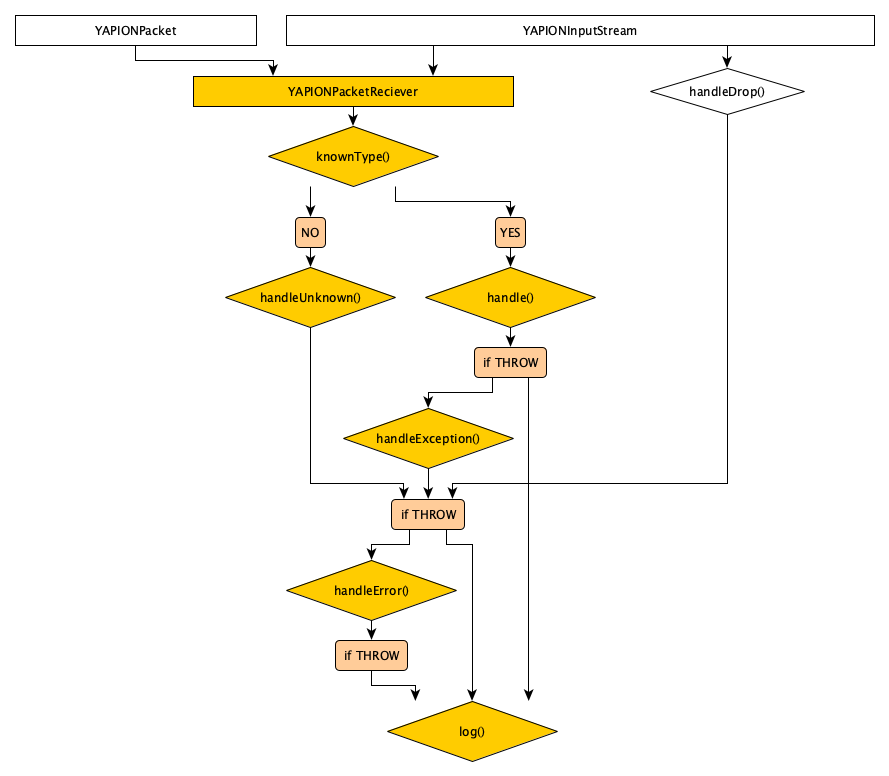
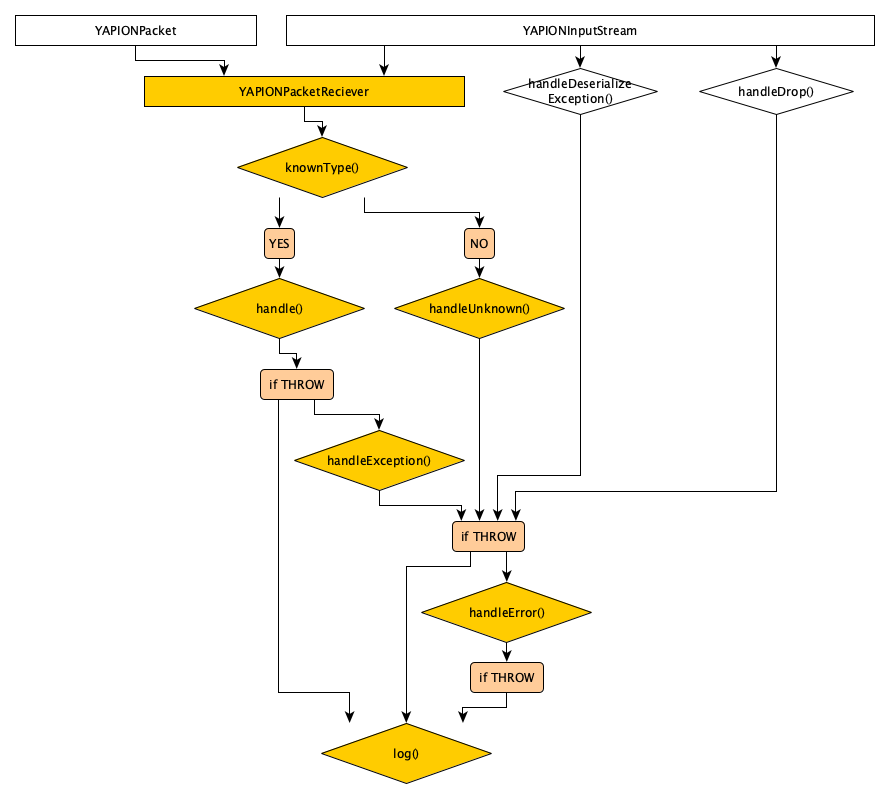
Add YAPIONDeserializationExceptionPacket Update YAPIONPacketReceiver Add YAPIONPacketReceiver.DESERIALIZE_EXCEPTION_HANDLER

Changed region(s): [[0.0304, 0.0309, 0.9719, 0.5258], [0.3037, 0.4948, 0.6682, 0.9897], [0.7897, 0.5876, 0.82, 0.6186]]

diff --git a/src/main/java/yapion/packet/YAPIONPacketReceiver.java b/src/main/java/yapion/packet/YAPIONPacketReceiver.java
@@ -25,6 +25,7 @@ public class YAPIONPacketReceiver {
     private static final String EXCEPTION_HANDLER = "@exception";
     private static final String UNKNOWN_PACKET_HANDLER = "@unknown";
     private static final String DROP_HANDLER = "@drop";
+    private static final String DESERIALIZE_EXCEPTION_HANDLER = "@deserialize";
 
     /**
      * Creates an YAPIONPacketReceiver
@@ -35,6 +36,10 @@ public class YAPIONPacketReceiver {
         handlerMap.put(EXCEPTION_HANDLER, yapionPacket -> {
         });
         handlerMap.put(UNKNOWN_PACKET_HANDLER, yapionPacket -> {
+        });
+        handlerMap.put(DROP_HANDLER, yapionPacket -> {
+        });
+        handlerMap.put(DESERIALIZE_EXCEPTION_HANDLER, yapionPacket -> {
         });
     }
 
@@ -116,7 +121,7 @@ public class YAPIONPacketReceiver {
     }
 
     /**
-     * Set the Drop {@link YAPIONPacketHandler} to do something when an date drop occurred.
+     * Set the Drop {@link YAPIONPacketHandler} to do something when a data drop occurred.
      *
      * @param yapionPacketHandler
      */
@@ -125,6 +130,19 @@ public class YAPIONPacketReceiver {
             throw new YAPIONException();
         }
         handlerMap.put(DROP_HANDLER, yapionPacketHandler);
+        return this;
+    }
+
+    /**
+     * Set the Deserialization Exception {@link YAPIONPacketHandler} to do something when a deserialization exception occurred.
+     *
+     * @param yapionPacketHandler
+     */
+    public YAPIONPacketReceiver setDeserializationExceptionHandler(YAPIONPacketHandler yapionPacketHandler) {
+        if (yapionPacketHandler == null) {
+            throw new YAPIONException();
+        }
+        handlerMap.put(DESERIALIZE_EXCEPTION_HANDLER, yapionPacketHandler);
         return this;
     }
 
@@ -181,6 +199,10 @@ public class YAPIONPacketReceiver {
 
     void handleDrop(YAPIONPacket yapionPacket) {
         handlePacket(yapionPacket, DROP_HANDLER, handlerMap.get(DROP_HANDLER), this::handleError);
+    }
+
+    void handleDeserializationException(YAPIONPacket yapionPacket) {
+        handlePacket(yapionPacket, DESERIALIZE_EXCEPTION_HANDLER, handlerMap.get(DROP_HANDLER), this::handleError);
     }
 
     private void handleUnknown(YAPIONPacket yapionPacket) {

diff --git a/src/main/java/yapion/packet/YAPIONInputStream.java b/src/main/java/yapion/packet/YAPIONInputStream.java
@@ -198,7 +198,12 @@ public final class YAPIONInputStream {
         if (!(yapionAnyType instanceof YAPIONValue)) return;
         Object object = ((YAPIONValue) yapionAnyType).get();
         if (!(object instanceof String)) return;
-        object = YAPIONDeserializer.deserialize(yapionObject);
+        try {
+            object = YAPIONDeserializer.deserialize(yapionObject);
+        } catch (Exception e) {
+            yapionPacketReceiver.handleDeserializationException(new YAPIONDeserializationExceptionPacket(yapionObject));
+            return;
+        }
         if (!ReflectionsUtils.isClassSuperclassOf(object.getClass(), YAPIONPacket.class)) return;
         YAPIONPacket yapionPacket = (YAPIONPacket) object;
         if (respectiveOutputStream != null) yapionPacket.setYAPIONOutputStream(respectiveOutputStream);

diff --git a/src/main/java/yapion/packet/YAPIONDeserializationExceptionPacket.java b/src/main/java/yapion/packet/YAPIONDeserializationExceptionPacket.java
@@ -1,0 +1,16 @@
+package yapion.packet;
+
+import lombok.Getter;
+import yapion.hierarchy.types.YAPIONObject;
+import yapion.packet.YAPIONPacket;
+
+@Getter
+public class YAPIONDeserializationExceptionPacket extends YAPIONPacket {
+
+    private YAPIONObject yapionObject;
+
+    YAPIONDeserializationExceptionPacket(YAPIONObject yapionObject) {
+        this.yapionObject = yapionObject;
+    }
+
+}

diff --git a/src/main/java/yapion/packet/YAPIONDropPacket.java b/src/main/java/yapion/packet/YAPIONDropPacket.java
@@ -7,6 +7,7 @@
 package yapion.packet;
 
 import lombok.Getter;
+import yapion.packet.YAPIONPacket;
 
 @Getter
 public class YAPIONDropPacket extends YAPIONPacket {
